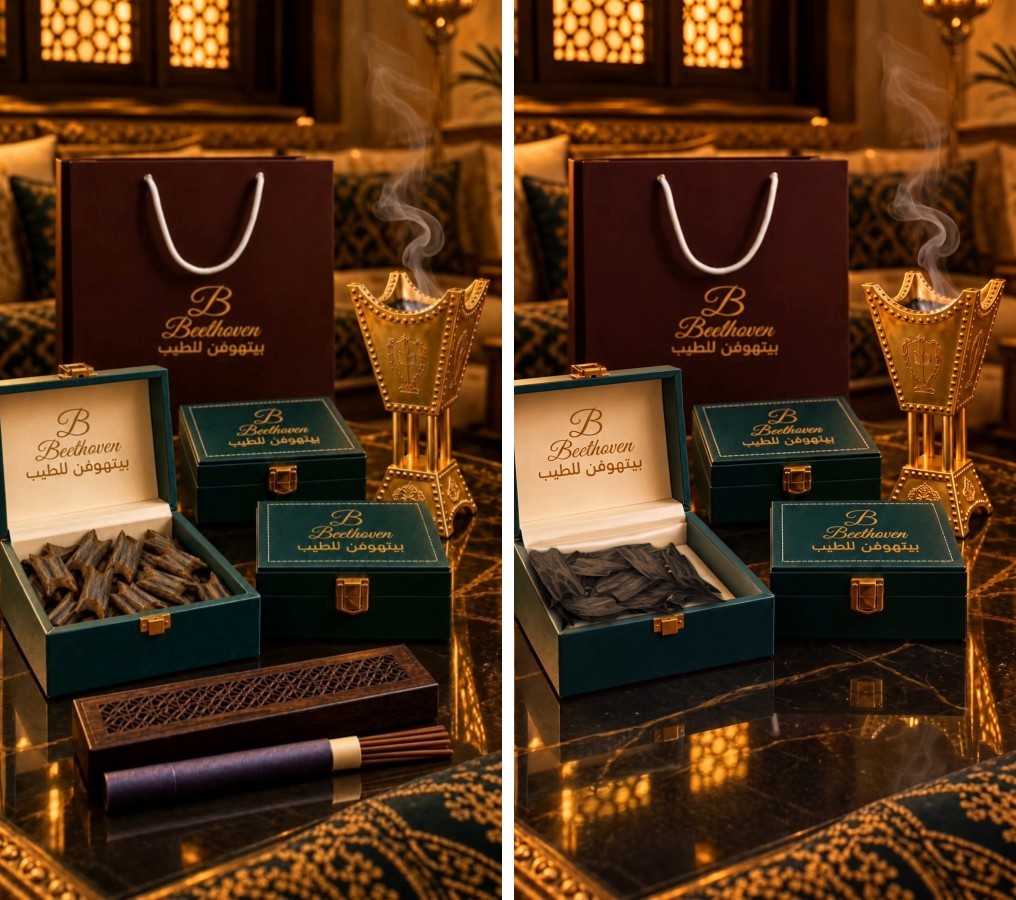
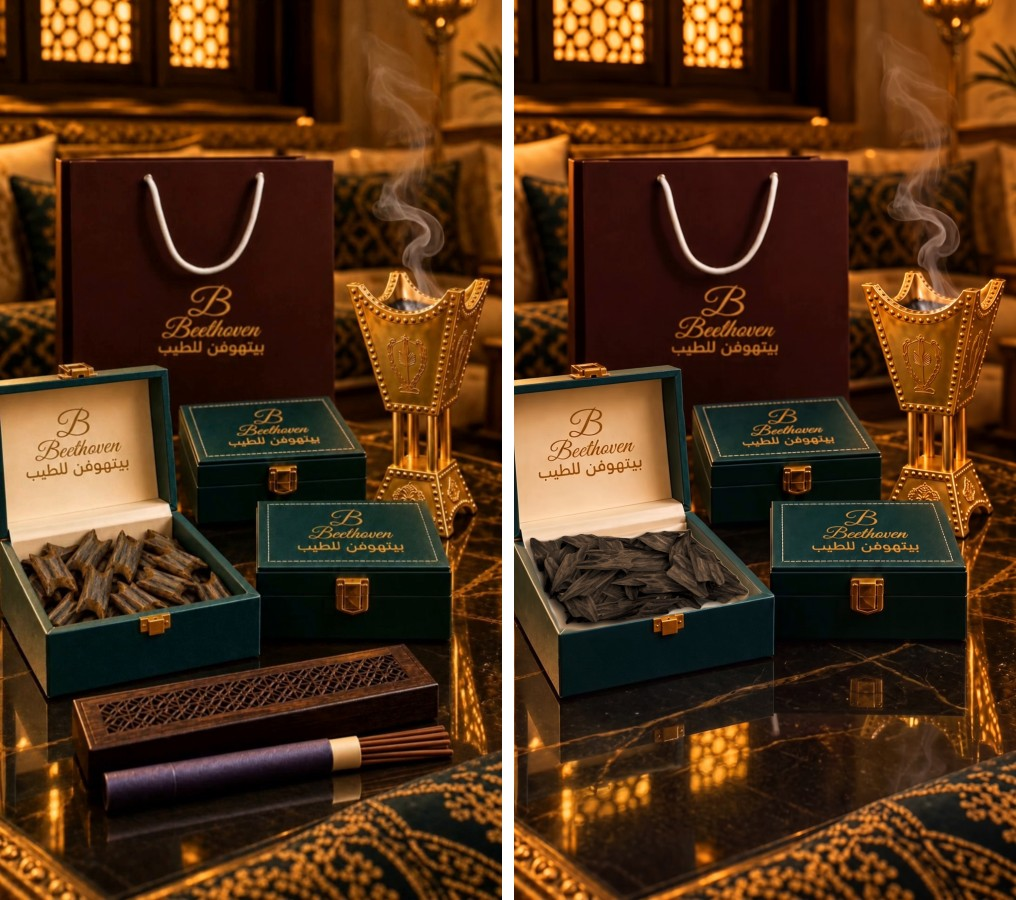
Ad 2: transplant the approved ad-1 heap into every box (transplant_heap.py)
Claude-Session: https://claude.ai/code/session_01TQdgL8psWQ5B4XyTxv2k9v

Changed region(s): [[0.5187, 0.5911, 0.7323, 0.7156]]

diff --git a/.claude/skills/product-ad-fidelity/scripts/transplant_heap.py b/.claude/skills/product-ad-fidelity/scripts/transplant_heap.py
@@ -1,0 +1,63 @@
+"""Copy an APPROVED filled box (heap of pieces) into another empty box, pixel-for-pixel, warped to
+the new box's perspective. Use this when the client says "make all boxes exactly like that one":
+re-generating a new arrangement never reaches 99 % identity; transplanting does.
+
+usage: python transplant_heap.py cfg.json
+{
+ "src_filled": "approved_filled.png", "src_empty": "approved_empty_plate.png",
+ "src_quad": [[BLx,BLy],[BRx,BRy],[FRx,FRy],[FLx,FLy]],      # opening corners in the approved image
+ "dst_empty": "new_empty_plate.png", "out": "new_filled.png",
+ "dst_quad": optional; if absent it is fitted to the cream lining of dst_empty inside "dst_hint" polygon,
+ "dst_hint": [[x,y],...],                                     # rough polygon around the new opening
+ "relight": 0.5                                               # 0 = keep approved colours, 1 = full scene-light match
+}
+"""
+import json, sys
+import cv2
+import numpy as np
+
+c = json.load(open(sys.argv[1]))
+F = cv2.imread(c['src_filled']).astype(np.float32); E = cv2.imread(c['src_empty']).astype(np.float32)
+D = cv2.imread(c['dst_empty']).astype(np.float32); H, W = D.shape[:2]
+sq = np.array(c['src_quad'], np.float32)
+
+
+def lining(img, poly):
+    lab = cv2.cvtColor(img.astype(np.uint8), cv2.COLOR_BGR2LAB).astype(np.int16)
+    m = ((lab[..., 0] > 90) & (np.abs(lab[..., 1] - 128) < 18) & (lab[..., 2] > 126) & (lab[..., 2] < 185) & (lab[..., 2] - lab[..., 1] > 2)).astype(np.uint8)
+    hp = np.zeros(m.shape, np.uint8); cv2.fillPoly(hp, [np.array(poly, np.int32)], 1); m &= hp
+    m = cv2.morphologyEx(m, cv2.MORPH_CLOSE, np.ones((15, 15), np.uint8))
+    n, lb, st, _ = cv2.connectedComponentsWithStats(m); m = (lb == 1 + np.argmax(st[1:, 4])).astype(np.uint8)
+    cn, _ = cv2.findContours(m, cv2.RETR_EXTERNAL, cv2.CHAIN_APPROX_NONE); m = np.zeros_like(m); cv2.drawContours(m, cn, -1, 1, -1)
+    return m
+
+
+def quad_of(mask):
+    cn, _ = cv2.findContours(mask, cv2.RETR_EXTERNAL, cv2.CHAIN_APPROX_NONE); hull = cv2.convexHull(max(cn, key=cv2.contourArea)).reshape(-1, 2).astype(np.float32)
+    s = hull.sum(1); d = hull[:, 0] - hull[:, 1]
+    bl = hull[np.argmin(s)]          # top-left in image = back-left
+    fr = hull[np.argmax(s)]          # bottom-right = front-right
+    br = hull[np.argmax(d)]          # top-right = back-right
+    fl = hull[np.argmin(d)]          # bottom-left = front-left
+    return np.array([bl, br, fr, fl], np.float32)
+
+
+dlin = lining(D, c['dst_hint'])
+dq = np.array(c['dst_quad'], np.float32) if 'dst_quad' in c else quad_of(dlin)
+# heap layer of the approved image: everything that differs from its empty plate inside the opening
+so = np.zeros(F.shape[:2], np.uint8); cv2.fillPoly(so, [sq.astype(np.int32)], 1)
+diff = np.abs(F - E).max(2); a = np.clip((diff - 10) / 30, 0, 1) * so
+a = cv2.morphologyEx(a, cv2.MORPH_CLOSE, np.ones((5, 5), np.uint8)); a = cv2.GaussianBlur(a, (3, 3), 0)
+Hm = cv2.getPerspectiveTransform(sq, dq)
+wF = cv2.warpPerspective(F, Hm, (W, H), flags=cv2.INTER_CUBIC); wa = cv2.warpPerspective(a, Hm, (W, H), flags=cv2.INTER_LINEAR)
+# relight: approved heap was lit by the old scene; nudge toward the new lining colour
+rl = c.get('relight', 0.5)
+oldL = np.median(E[(lining(E, sq.tolist()) > 0)], axis=0); newL = np.median(D[dlin > 0], axis=0)
+wF = wF * ((newL / oldL) ** rl)
+qm = np.zeros((H, W), np.uint8); cv2.fillPoly(qm, [dq.astype(np.int32)], 1)
+qm = cv2.erode(qm, np.ones((c.get('edge_px', 5),) * 2, np.uint8))
+clip = cv2.GaussianBlur(qm.astype(np.float32), (3, 3), 0)   # never outside the new opening (front wall / clasp stay on top)
+A = (wa * clip)[..., None]
+out = D * (1 - A) + wF * A
+cv2.imwrite(c['out'], np.clip(out, 0, 255).astype(np.uint8))
+print('dst_quad', dq.round().tolist())
